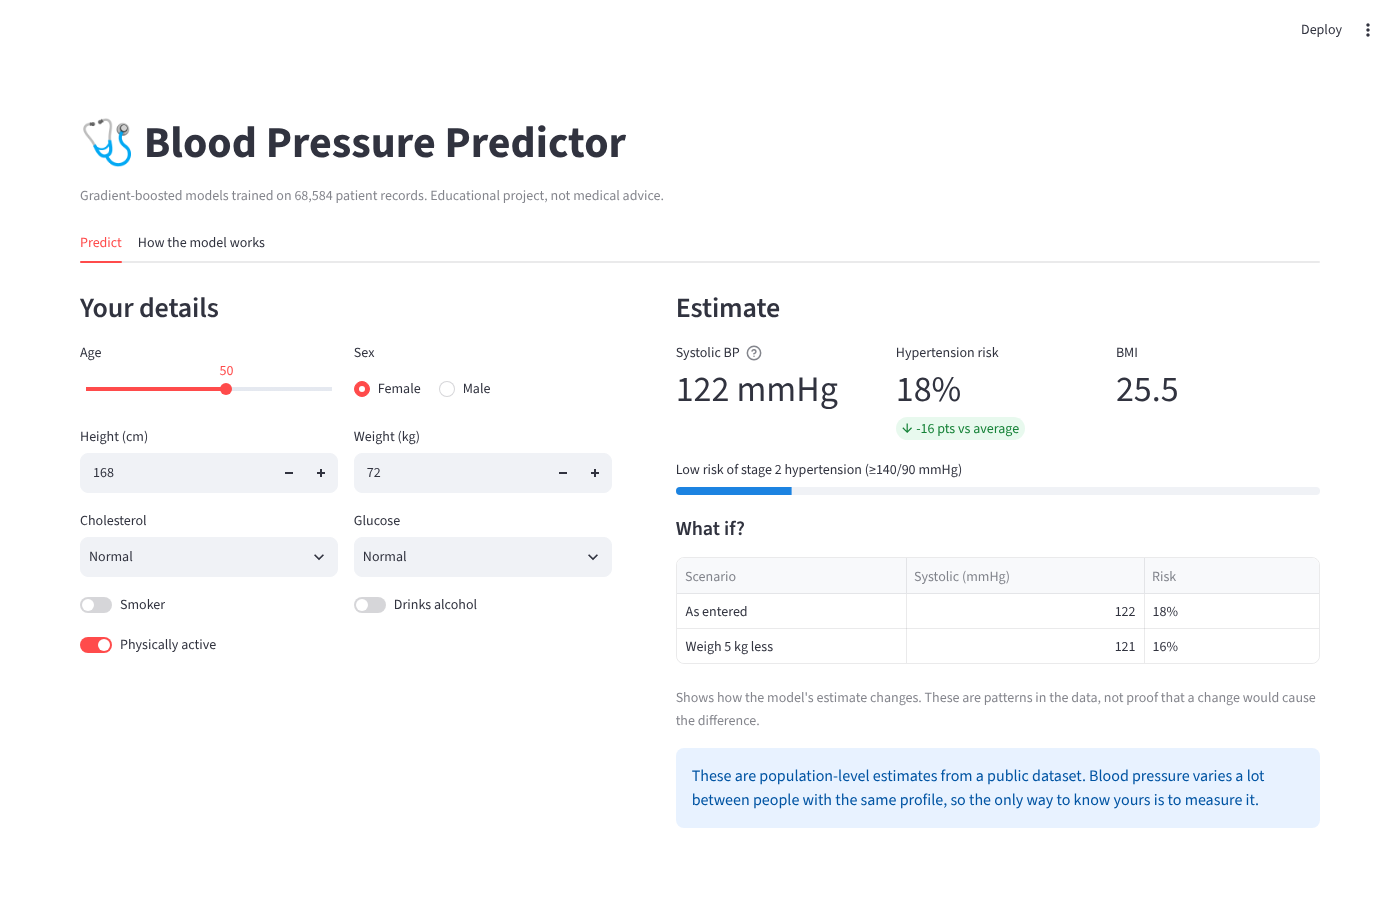
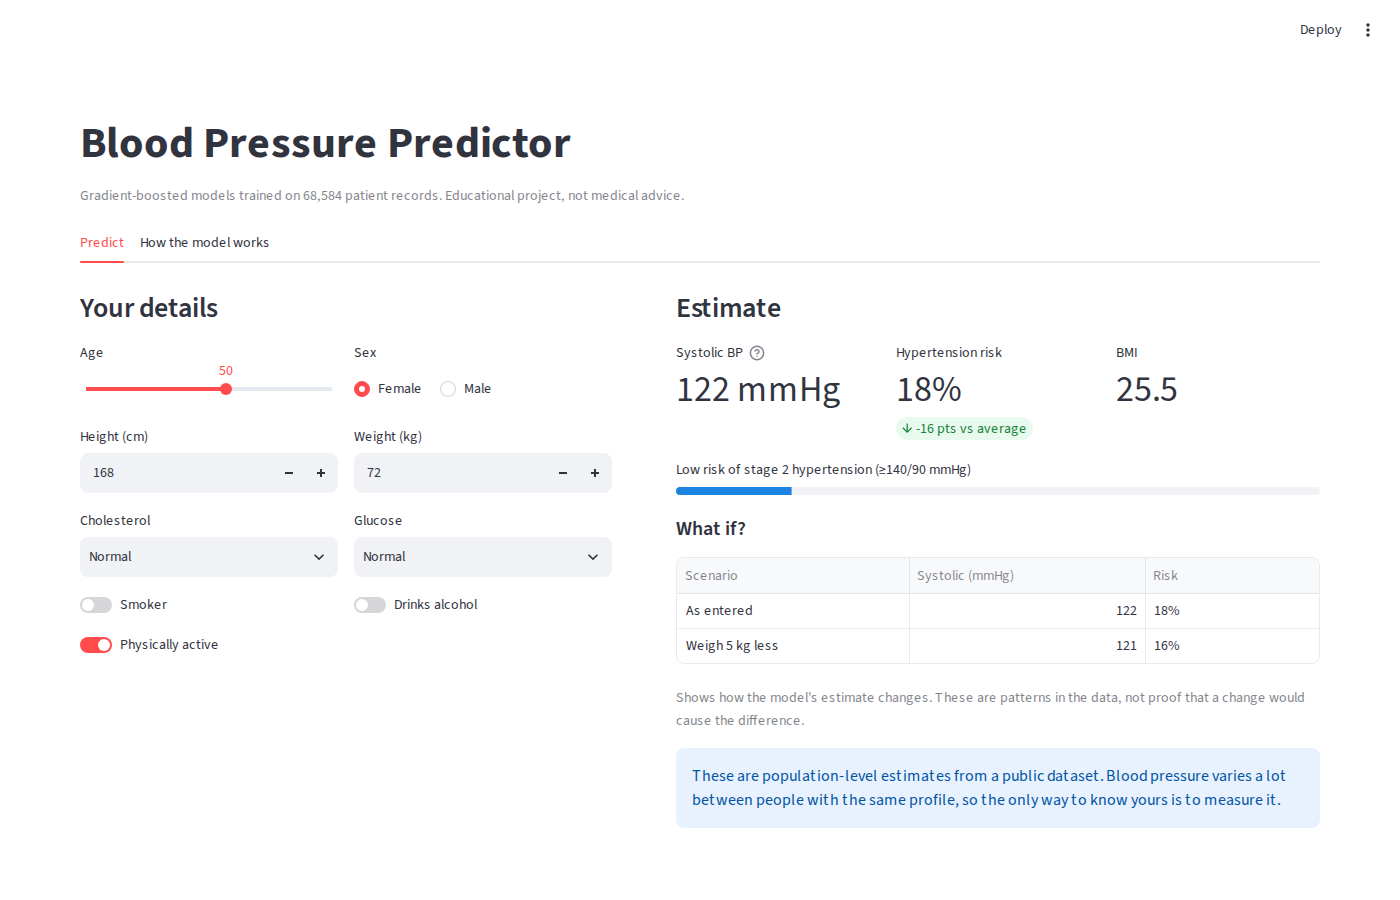
Remove emoji from app title and README

diff --git a/app.py b/app.py
@@ -16,7 +16,7 @@ ROOT = Path(__file__).parent
 MODELS = ROOT / "models"
 FIGS = ROOT / "reports" / "figures"
 
-st.set_page_config(page_title="Blood Pressure Predictor", page_icon="🩺", layout="wide")
+st.set_page_config(page_title="Blood Pressure Predictor", layout="wide")
 
 
 @st.cache_resource
@@ -33,7 +33,7 @@ best_reg = next(r for r in metrics["regression"]["results"]
 best_clf = next(r for r in metrics["classification"]["results"]
                 if r["model"] == metrics["classification"]["best_model"])
 
-st.title("🩺 Blood Pressure Predictor")
+st.title("Blood Pressure Predictor")
 st.caption(
     f"Gradient-boosted models trained on {metrics['dataset']['rows_clean']:,} patient records. "
     "Educational project, not medical advice."
